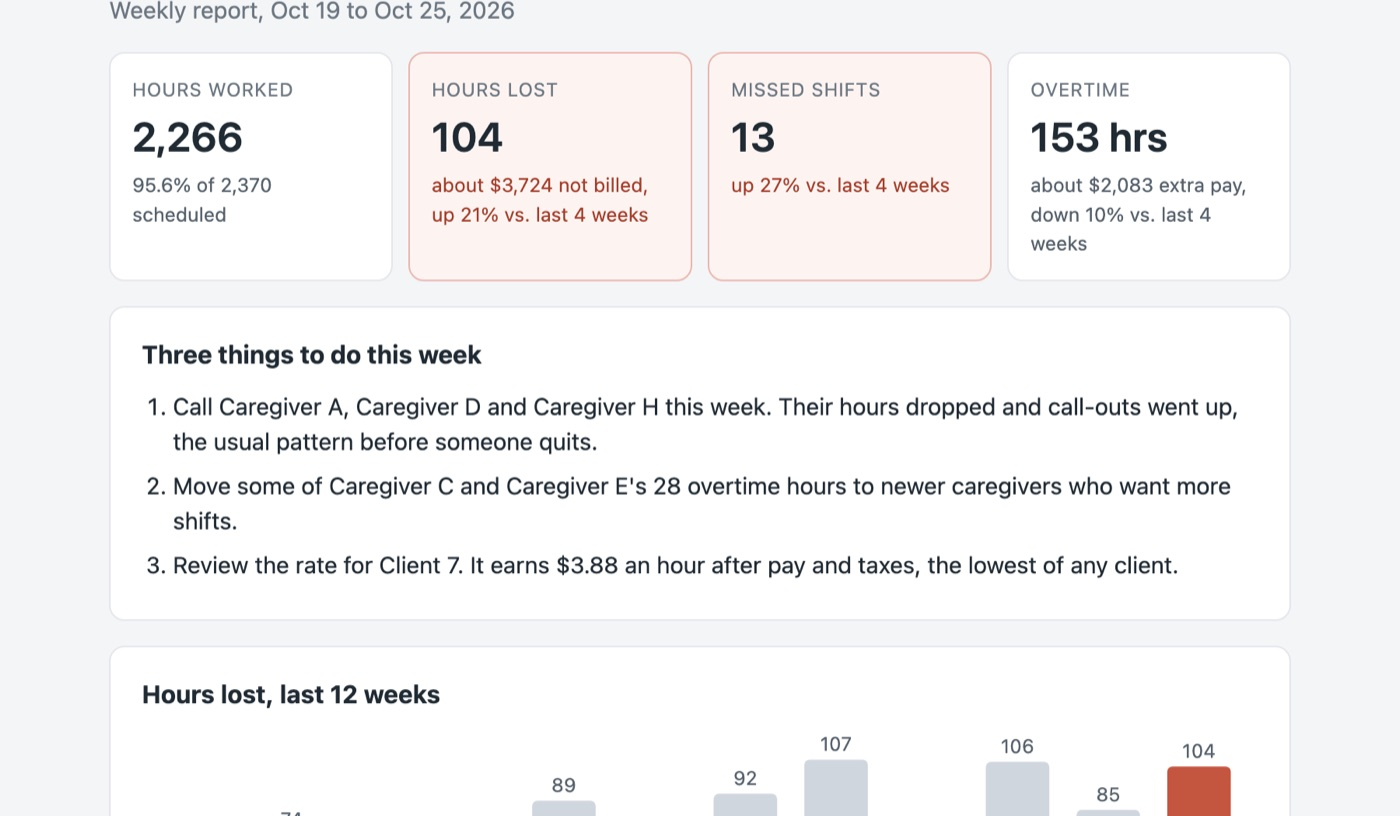
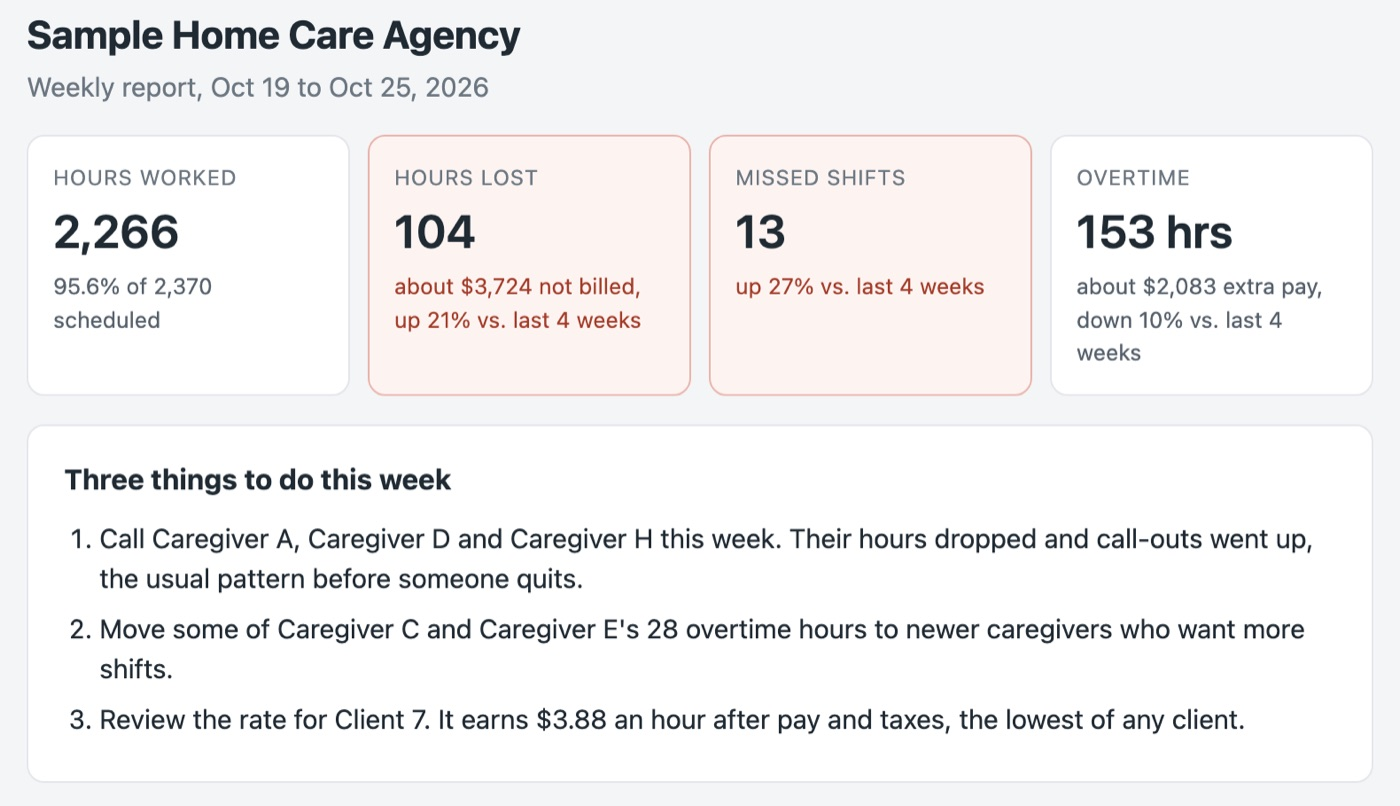
Recrop report preview

diff --git a/index.html b/index.html
@@ -75,7 +75,7 @@ footer{font-size:13px;color:#8a949e;padding:0 0 36px;text-align:center}
 <p class="small">Free one-page plan in 2 business days. No sales calls.</p>
 </div>
 <div>
-<a class="shot" href="/sample/"><img src="/report-preview.jpg" width="1400" height="816" alt="Top of a sample weekly report: hours worked, hours lost, missed shifts, overtime, and three things to do this week"></a>
+<a class="shot" href="/sample/"><img src="/report-preview.jpg" width="1400" height="806" alt="Top of a sample weekly report: hours worked, hours lost, missed shifts, overtime, and three things to do this week"></a>
 <p class="cap">The top of a sample report. The agency and numbers are made up.</p>
 </div>
 </div>
